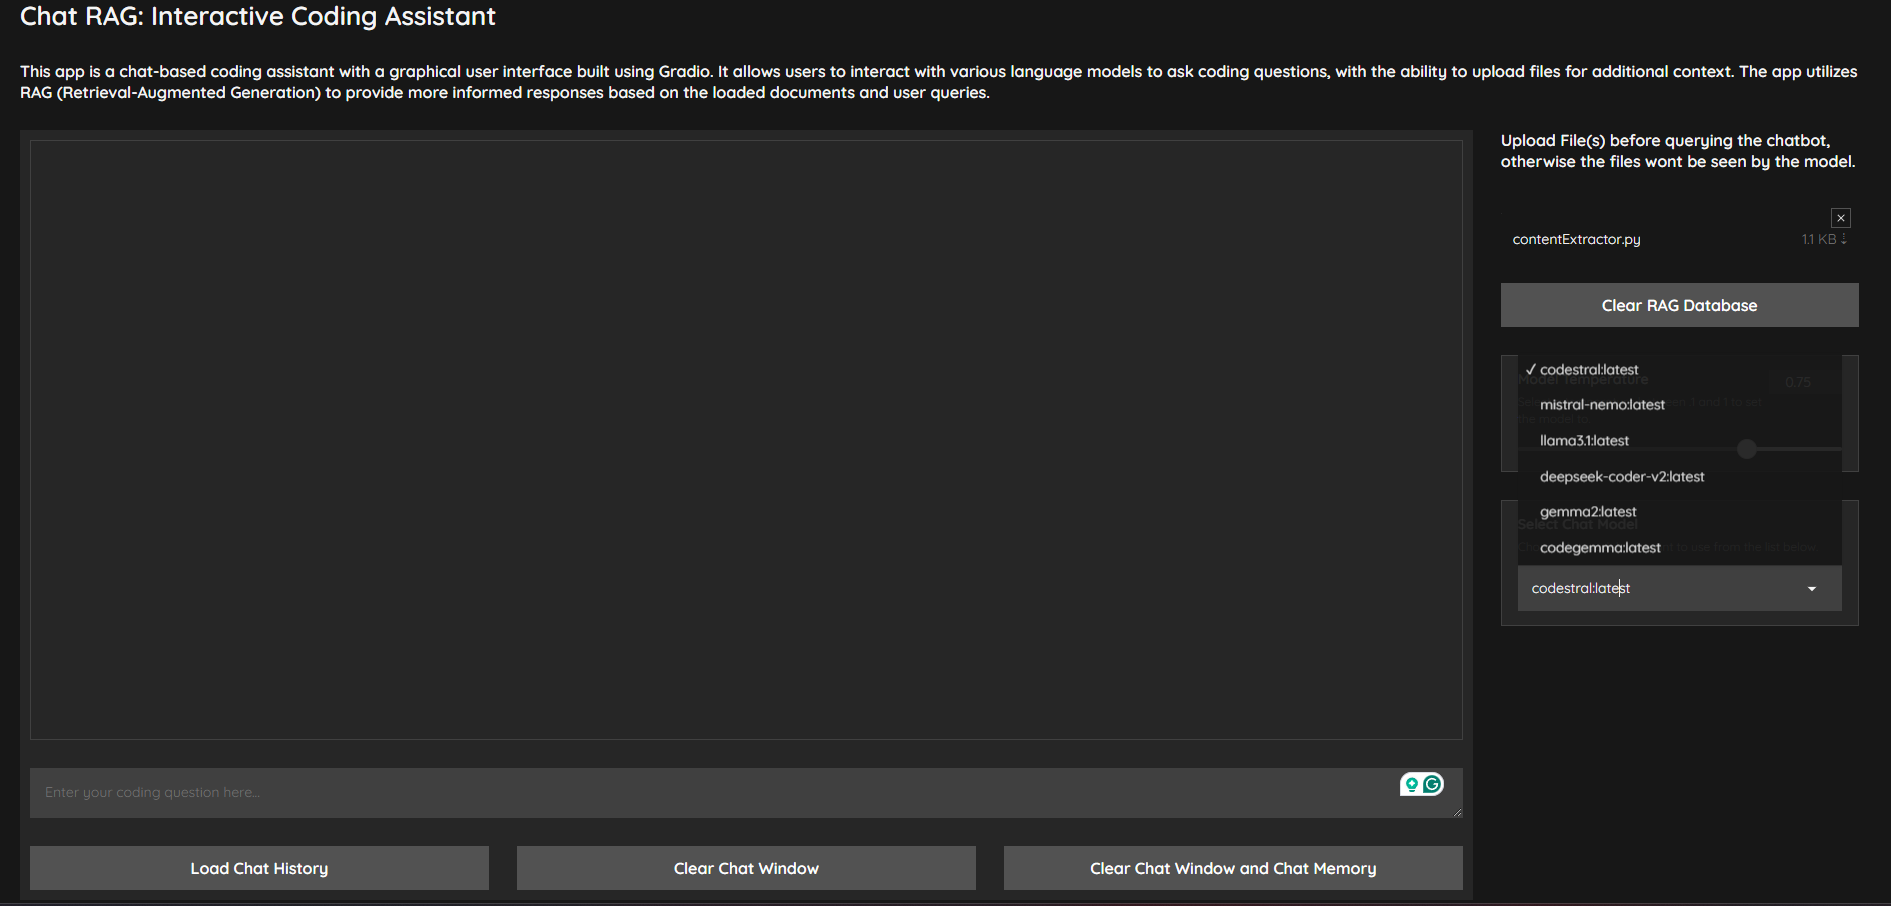
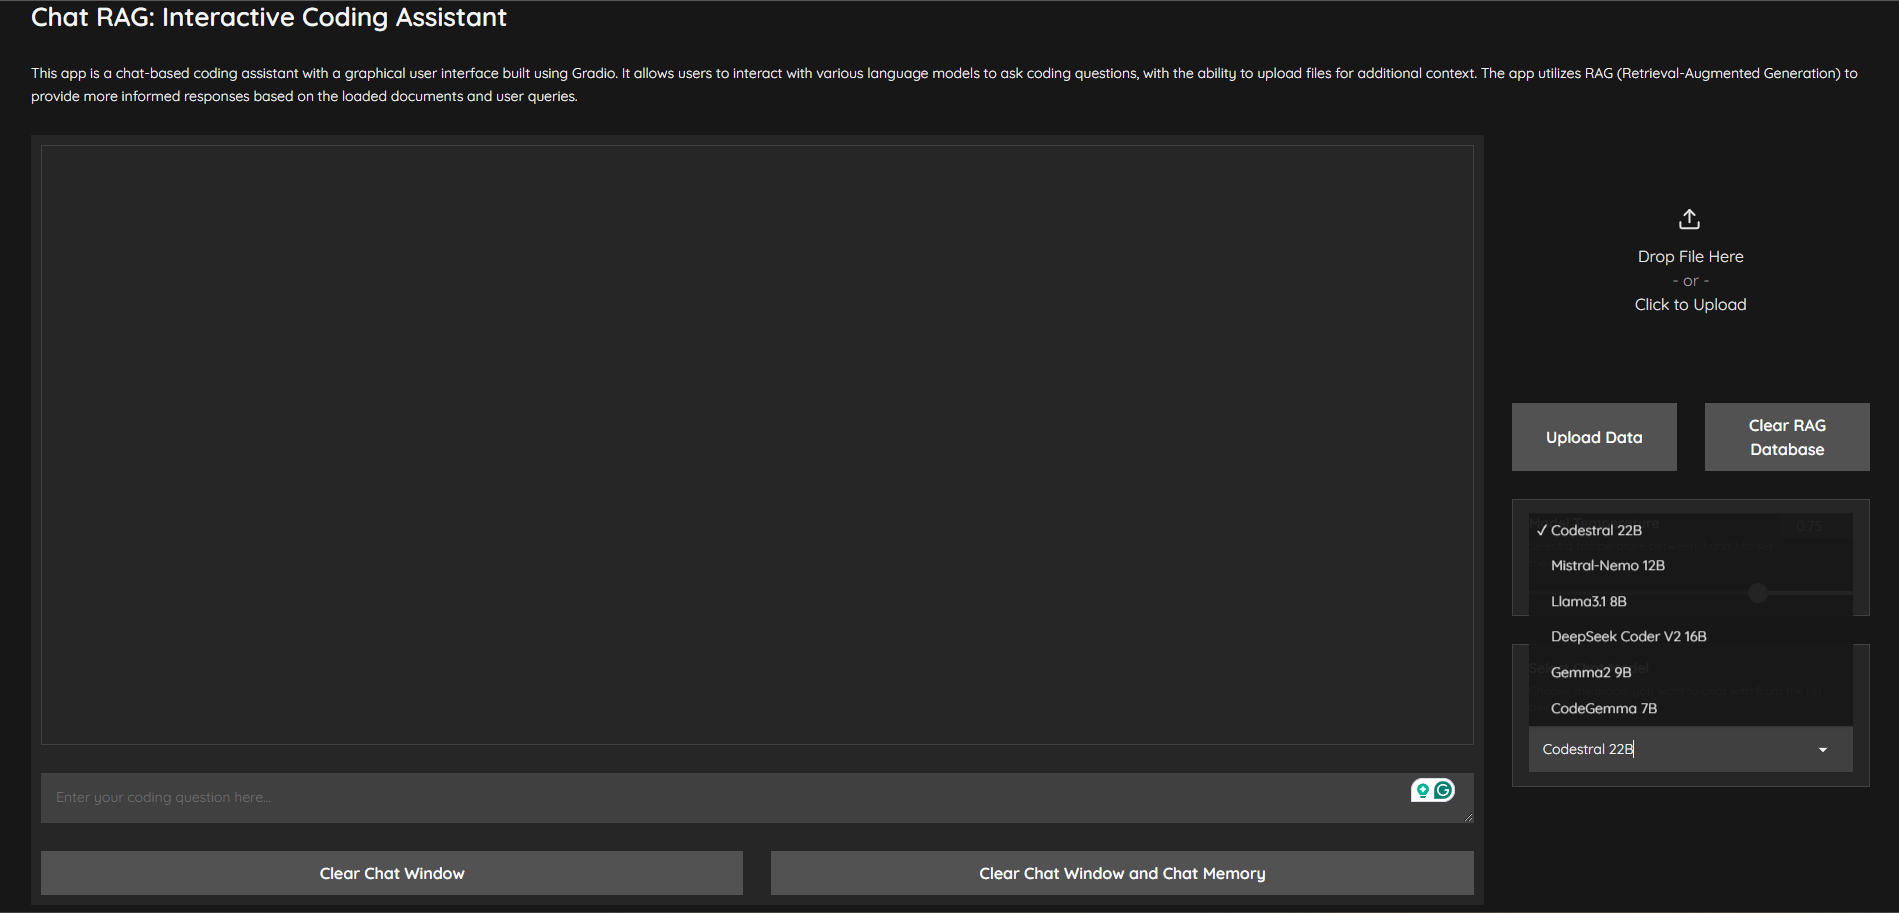
updated pictures of chat rag and update date

diff --git a/jf-coded/src/pages/Projects.jsx b/jf-coded/src/pages/Projects.jsx
@@ -15,6 +15,7 @@ import JFCodedImg3 from '../images/projectImages/JFCoded/Resume-Page.png';
 import ChatRAGImg1 from '../images/projectImages/Chat-RAG/start_state.png';
 import ChatRAGImg2 from '../images/projectImages/Chat-RAG/model_dropdown.png';
 import ChatRAGImg3 from '../images/projectImages/Chat-RAG/RAGQuestion.png';
+import ChatRAGImg4 from '../images/projectImages/Chat-RAG/Llama_Query.png';
 
 import HealthGImg1 from '../images/projectImages/HealthG-Demo/ChatWindow.png';
 import HealthGImg2 from '../images/projectImages/HealthG-Demo/WIthQuestionsAsked.png';
@@ -88,7 +89,7 @@ const Projects = () => {
         {
             name: 'Chat-RAG',
             description: 'Chat-RAG is an AI-powered chatbot that facilitates conversational interactions, leveraging different machine learning models. It supports Retrieval-Augmented Generation (RAG), allowing the chatbot to enhance its responses by retrieving relevant information from a set of documents. Users can switch between models depending on the context, and a user-friendly interface ensures smooth communication. The system efficiently manages input and output in real-time, making it suitable for various information retrieval and conversational tasks.',
-            images: [ChatRAGImg1, ChatRAGImg2, ChatRAGImg3],
+            images: [ChatRAGImg1, ChatRAGImg2, ChatRAGImg4, ChatRAGImg3],
             githubLink: 'https://github.com/JakeFurtaw/Chat-RAG'
         }
         // Add more ML projects here
@@ -131,7 +132,7 @@ const Projects = () => {
                     <Project key={index} {...project} />
                 ))}
             </div>
-            <h4>Last Updated 8/11/24 check my GitHub for my latest project updates. More projects coming soon!</h4>
+            <h4>Last Updated 8/17/24 check my GitHub for my latest project updates. More projects coming soon!</h4>
             <h4>Link Below!</h4>
             <div className="social-links">
                 <a href="https://www.linkedin.com/in/jacob-furtaw/" target="_blank" rel="noopener noreferrer" className="social-icon">
